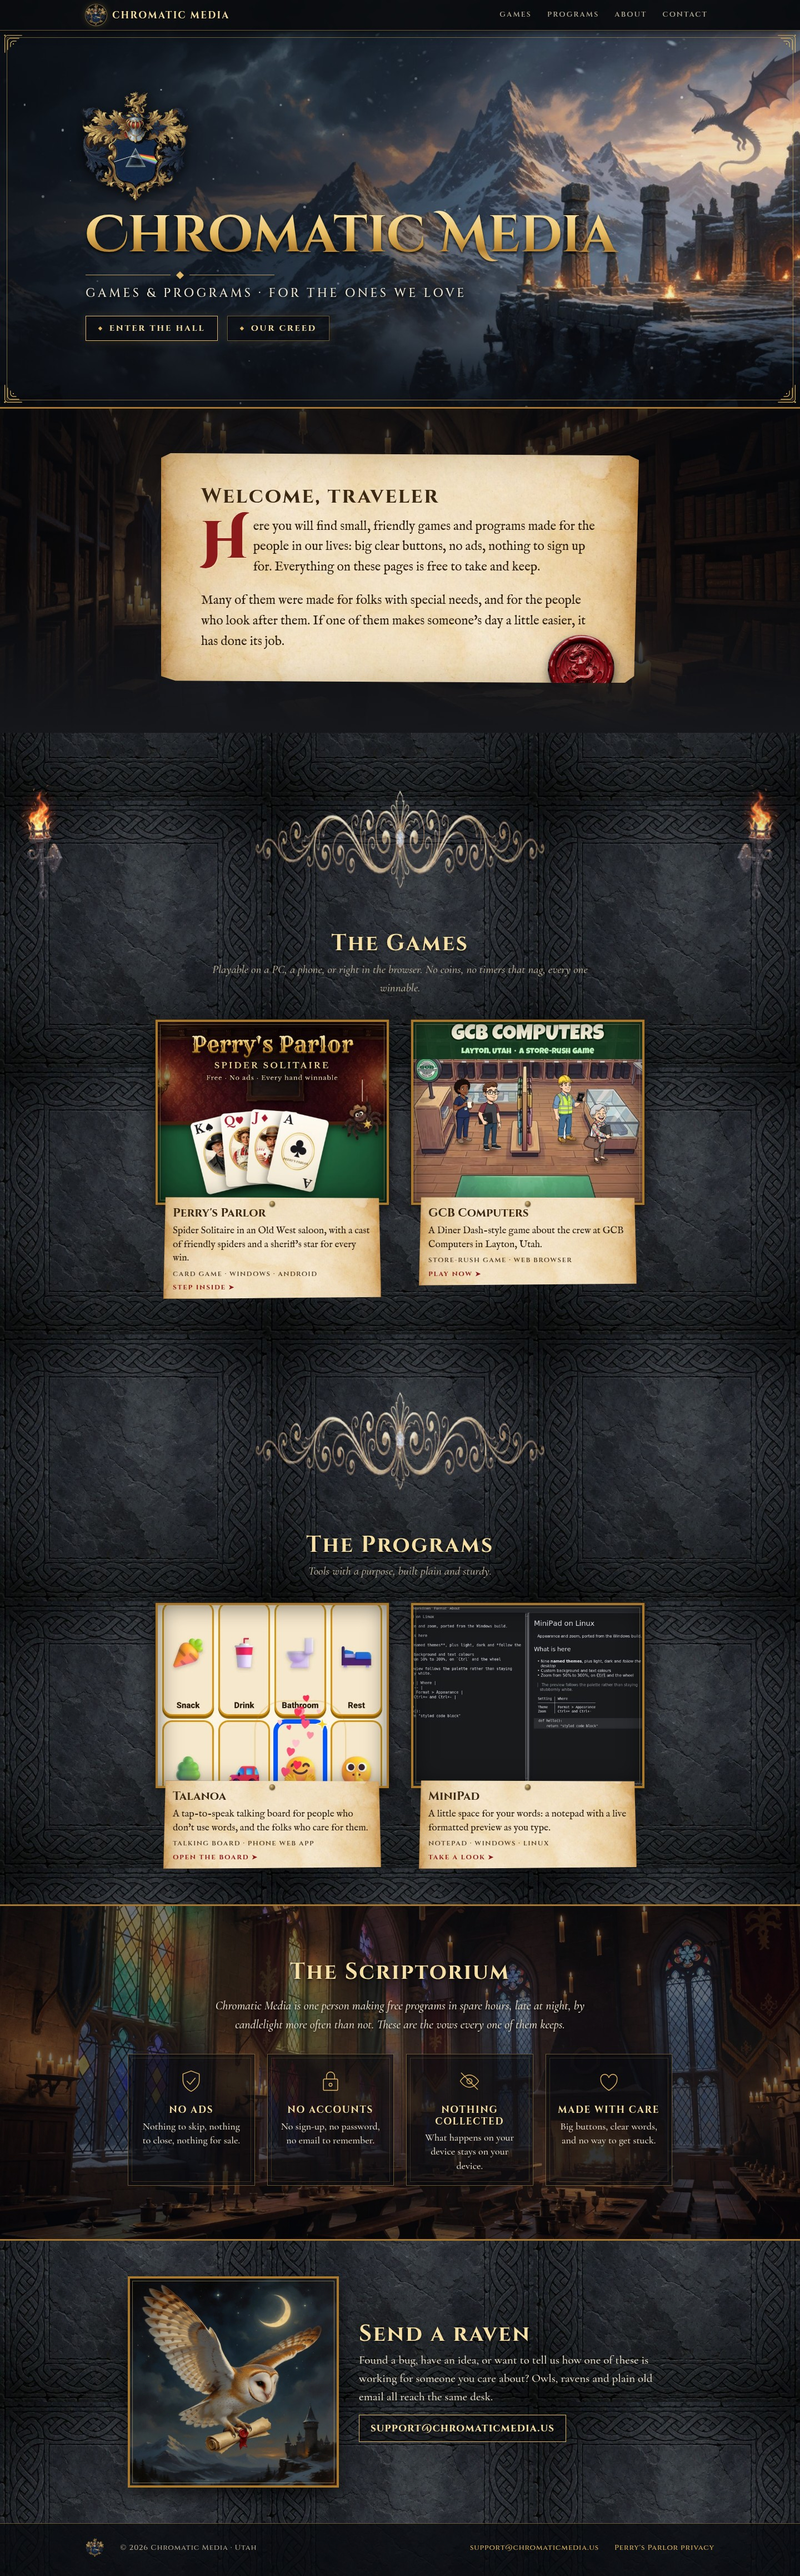
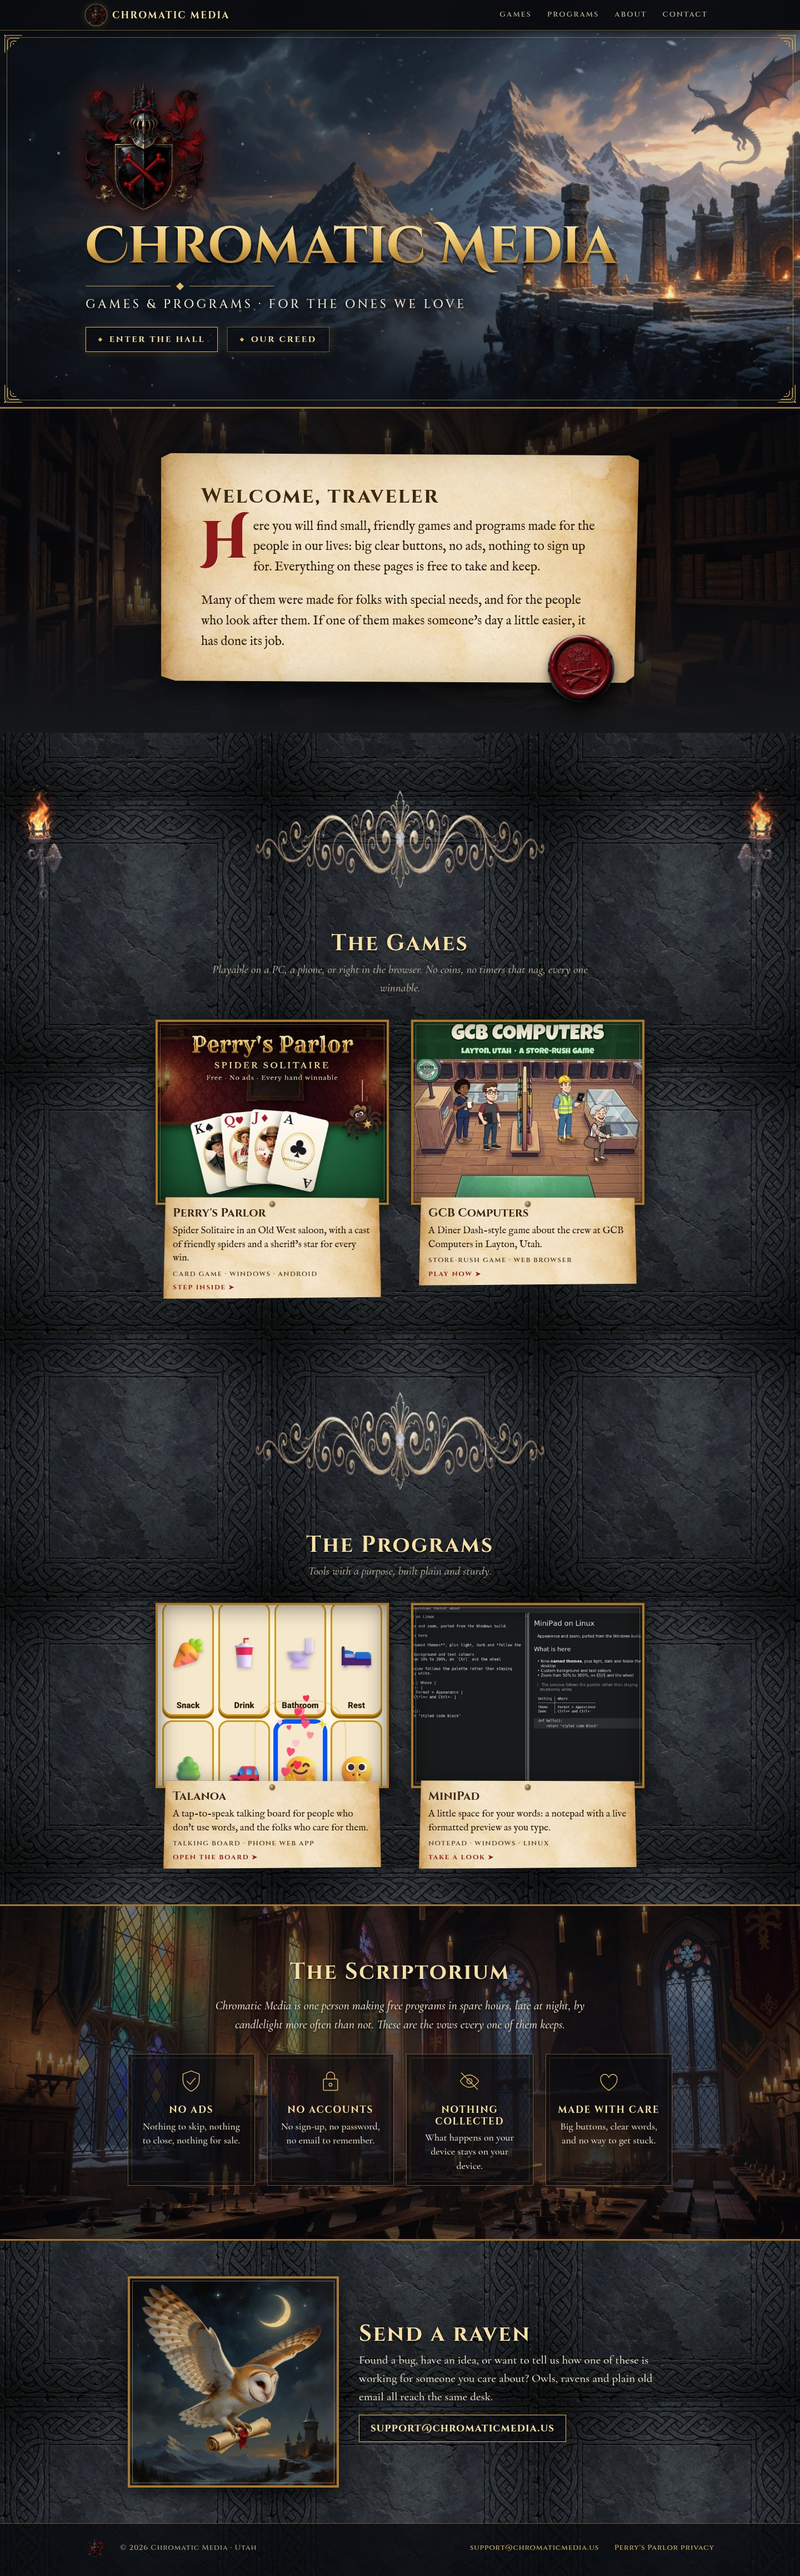
Castle Doom crest, crossbones wax seal, seal no longer clipped
Tim's brief: an obsidian black shield with blood-red crossbones for
Castle Doom, the legendary castle raised by a boy charged with
necromancy who was really a powerful warlock. Four Krea-2 variants in
gen/jobs2.json; variant 2 is on the site, cut out with BiRefNet on
NORMANDY. The parchment layer moved to a ::before so its torn-edge
clip-path no longer cuts the wax seal. New matching wax seal (castle
over crossed bones). Crest a little larger with an ember glow.

Changed region(s): [[0.0938, 0.0311, 0.7812, 0.1554], [0.6875, 0.2487, 0.7812, 0.2797]]

diff --git a/index.html b/index.html
@@ -57,7 +57,7 @@
                filter: blur(.5px); animation: fall linear infinite; }
   @keyframes fall { to { transform: translate3d(var(--dx), 110vh, 0); opacity: .2; } }
   .hero-in { position: relative; width: 100%; max-width: 1180px; margin: 0 auto; padding: 48px 24px; }
-  .crest { width: clamp(120px, 15vw, 200px); height: auto; margin: 0 0 6px -8px; filter: drop-shadow(0 6px 10px rgba(0,0,0,.8)); }
+  .crest { width: clamp(140px, 17vw, 230px); height: auto; margin: 0 0 8px -10px; filter: drop-shadow(0 6px 10px rgba(0,0,0,.85)) drop-shadow(0 0 22px rgba(255,70,40,.35)); }
   h1 { font: 700 clamp(40px, 7.2vw, 92px)/1.02 "Cinzel Decorative", "Cinzel", serif; margin: 0;
        background: var(--gold-text); -webkit-background-clip: text; background-clip: text; color: transparent;
        filter: drop-shadow(0 3px 2px rgba(0,0,0,.8)); }
@@ -96,10 +96,12 @@
   .sub { text-align: center; margin: 0 auto 40px; max-width: 700px; color: var(--soft); font-style: italic; font-size: 21px; }
 
   /* parchment scroll */
-  .scroll { position: relative; max-width: 860px; margin: 0 auto; padding: clamp(28px, 5vw, 56px) clamp(24px, 6vw, 72px);
-            background: #e9d9b5 url("img/parchment.jpg") center / cover; color: var(--quill);
-            font: 500 clamp(19px, 2.2vw, 23px)/1.6 "IM Fell English", "Cormorant Garamond", serif;
-            box-shadow: 0 18px 40px rgba(0,0,0,.7), inset 0 0 60px rgba(90,60,20,.25);
+  .scroll { position: relative; isolation: isolate; max-width: 860px; margin: 0 auto; padding: clamp(28px, 5vw, 56px) clamp(24px, 6vw, 72px);
+            color: var(--quill); font: 500 clamp(19px, 2.2vw, 23px)/1.6 "IM Fell English", "Cormorant Garamond", serif;
+            filter: drop-shadow(0 18px 24px rgba(0,0,0,.7)); }
+  /* the parchment itself is a layer behind the text, so its torn edge never clips the wax seal */
+  .scroll::before { content: ""; position: absolute; inset: 0; z-index: -1;
+            background: #e9d9b5 url("img/parchment.jpg") center / cover; box-shadow: inset 0 0 60px rgba(90,60,20,.25);
             clip-path: polygon(0 2%, 2% 0, 98% 1%, 100% 3%, 99% 97%, 97% 100%, 3% 99%, 0 97%); }
   .scroll h2 { color: #3b2812; text-shadow: none; text-align: left; margin-bottom: 14px; font-size: clamp(28px, 3.4vw, 38px); }
   .scroll p { margin: 0 0 1em; }
@@ -107,7 +109,7 @@
   .scroll .cap { float: left; font: 900 4.1em/0.82 "Cinzel Decorative", serif; color: var(--wax); margin: .08em .1em 0 0;
                  text-shadow: 1px 1px 0 rgba(255,240,200,.5); }
   .scroll .seal { position: absolute; right: clamp(14px, 4vw, 44px); bottom: -34px; width: clamp(84px, 10vw, 120px); height: clamp(84px, 10vw, 120px);
-                  border-radius: 50%; background: url("img/seal.jpg") center / cover; box-shadow: 0 8px 18px rgba(0,0,0,.6); transform: rotate(-8deg); }
+                  border-radius: 50%; background: url("img/seal-doom.jpg") center / cover; box-shadow: 0 8px 18px rgba(0,0,0,.6); transform: rotate(-8deg); }
 
   /* gallery of framed paintings */
   .grid { display: grid; gap: 44px 40px; grid-template-columns: repeat(auto-fit, minmax(280px, 420px)); justify-content: center; }
